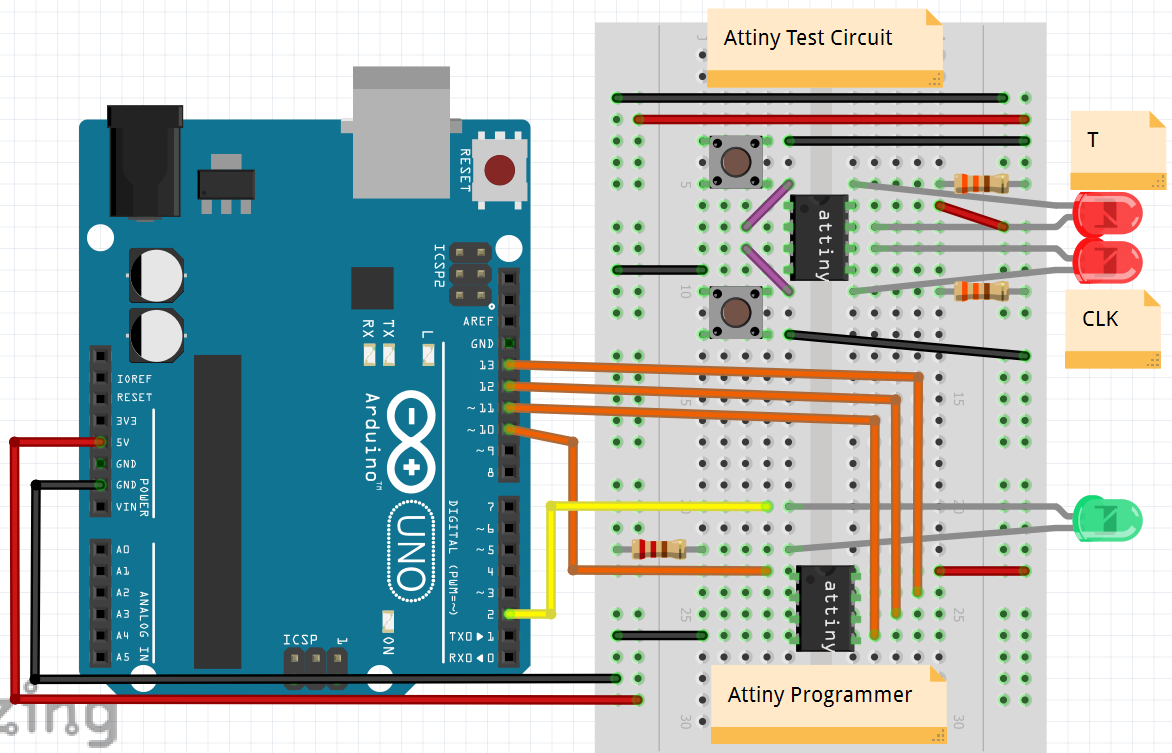
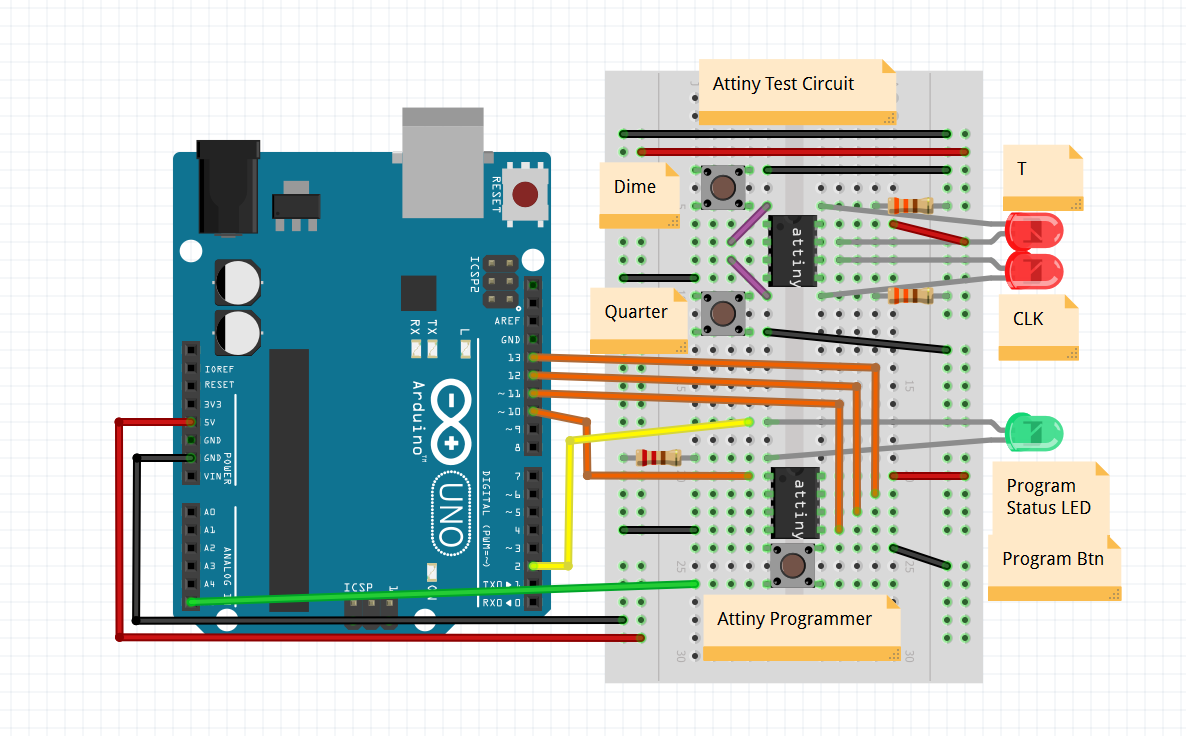
add frizting file and update png

diff --git a/documentation/readme.md b/documentation/readme.md
@@ -1,4 +1,5 @@
 #### Documentation Files
 
 - [AttinyProgrammerCircuit.png](./AttinyProgrammerCircuit.png) - Attiny Programmer Circuit Diagram
+- [Lab8ProgCircuit.fzz](./Lab8ProgCircuit.fzz) - Attiny Programmar Circuit Fritzing File
 - [lab8src.c](./lab8src.c) - Lab 8 Attiny13A Source Code. All byte code is derived from this via the Arduino IDEs **Sketch -> Export Compiled Binary** or **Alt+Ctrl+S** hot key.
